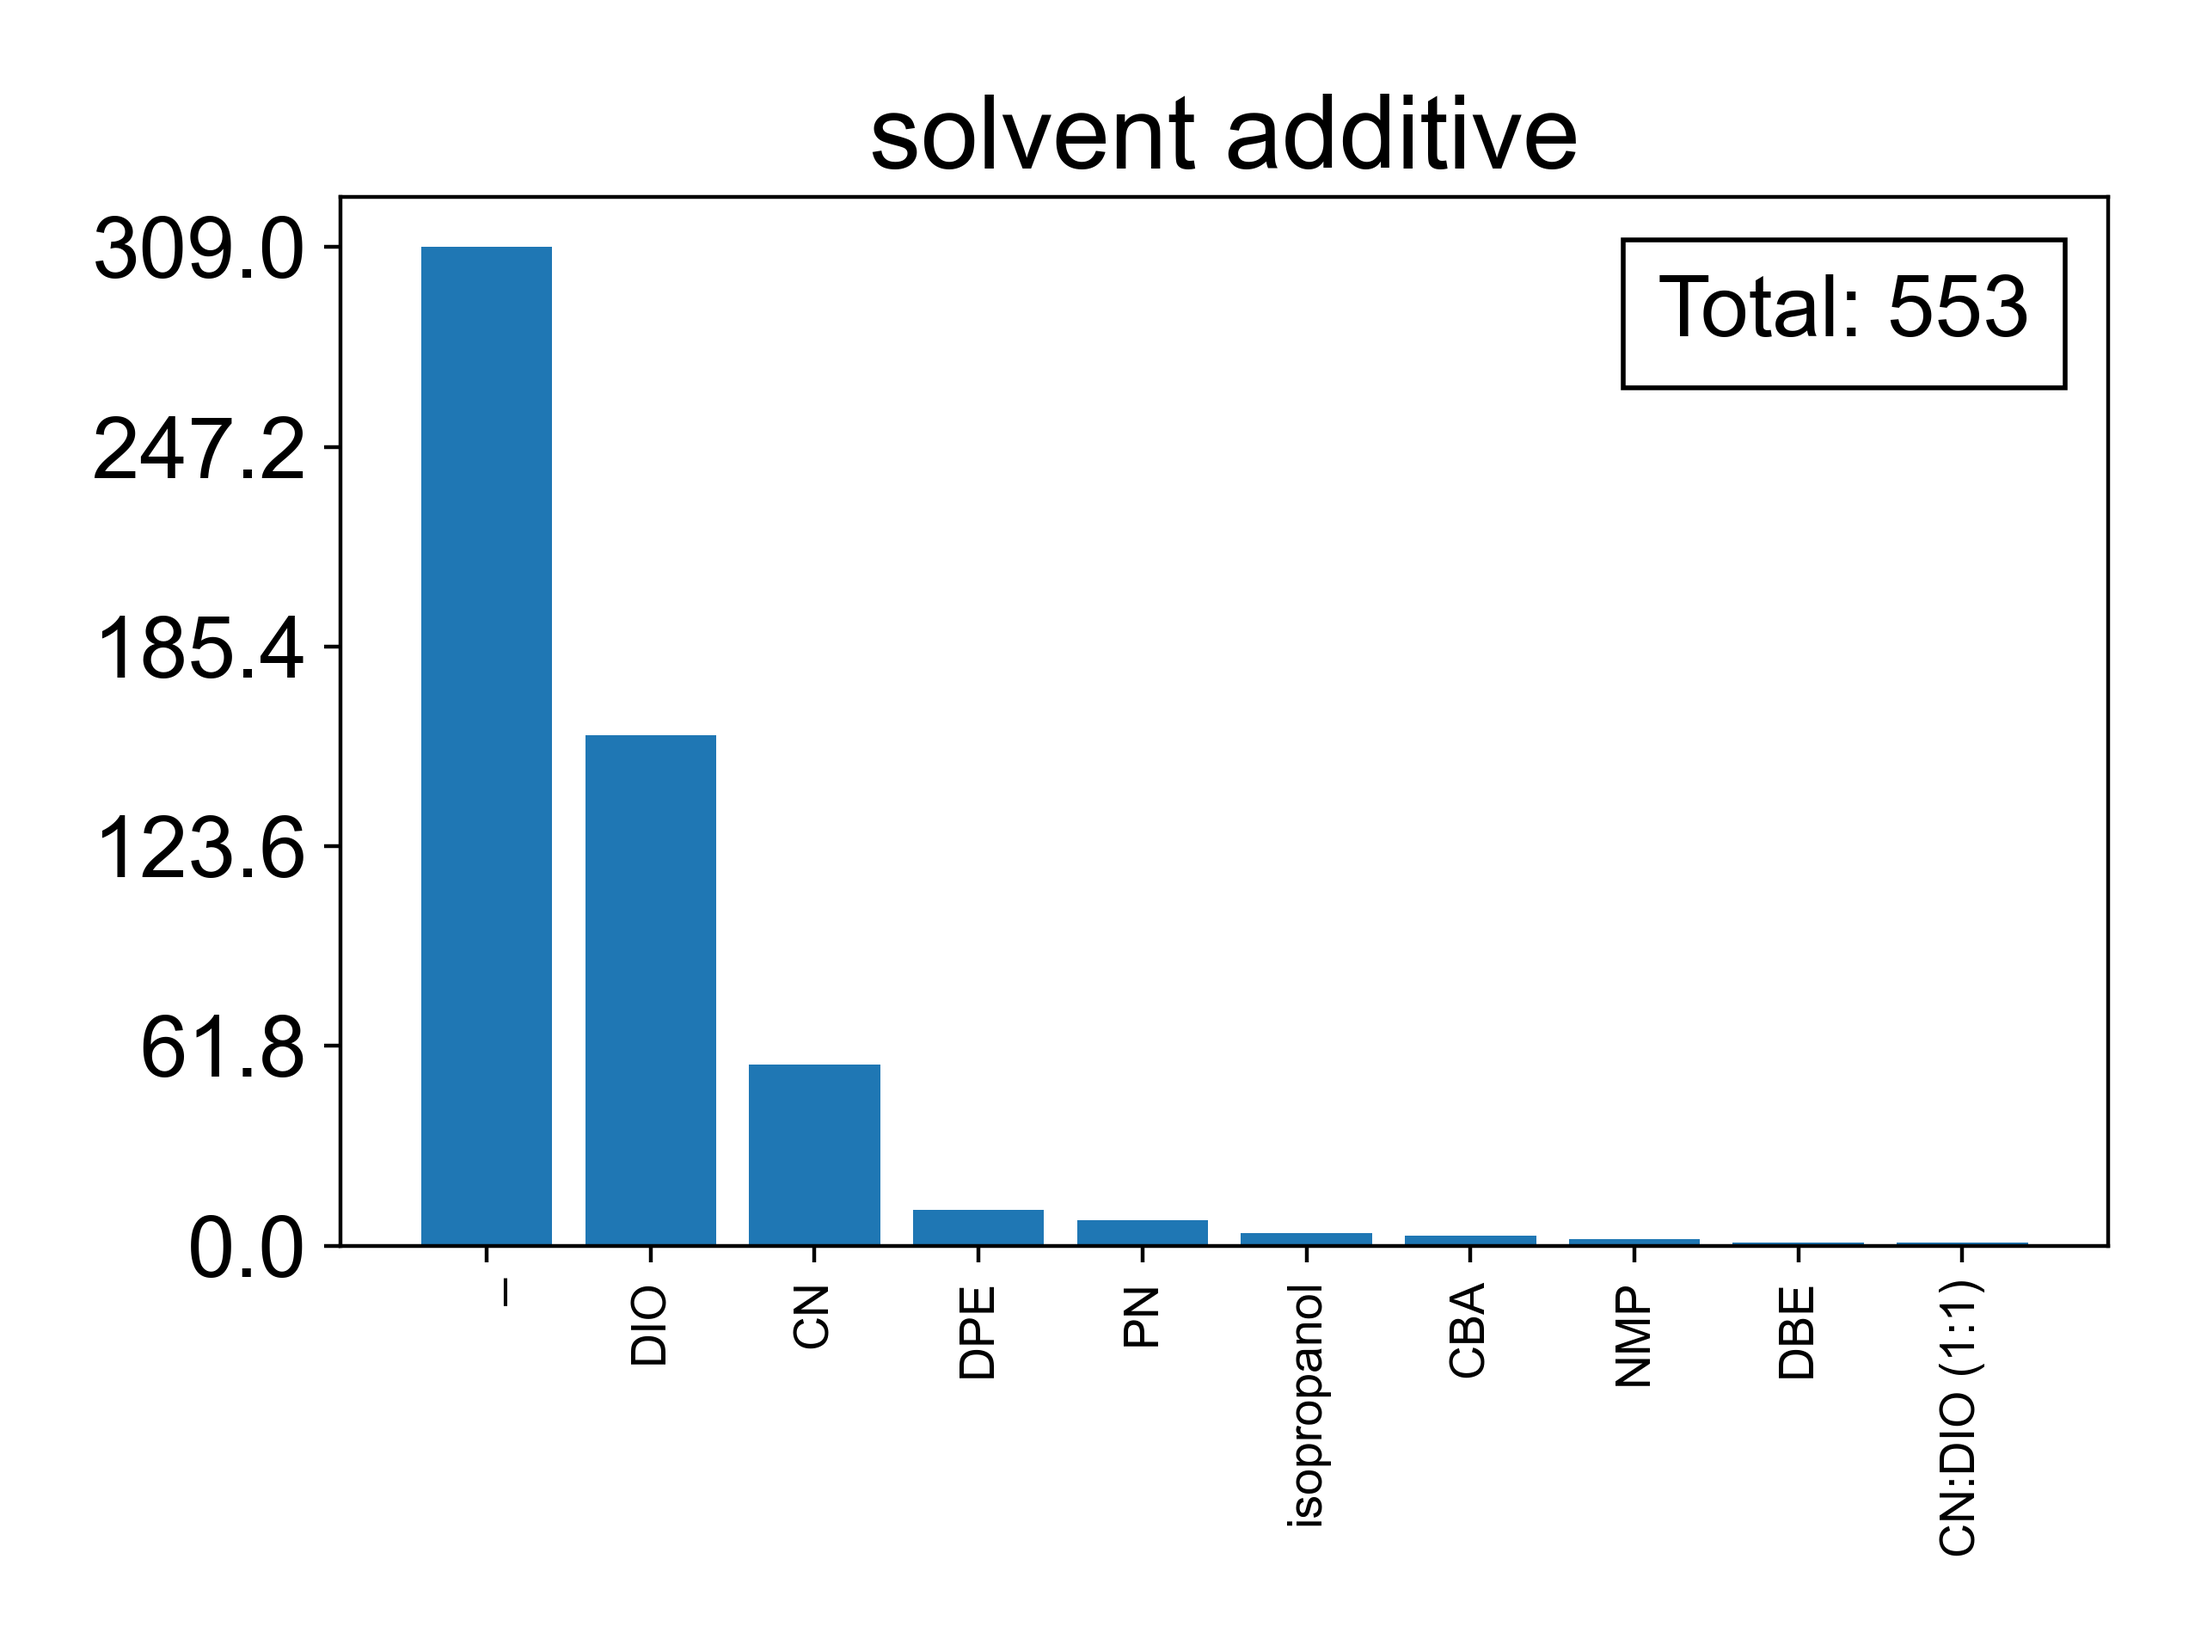
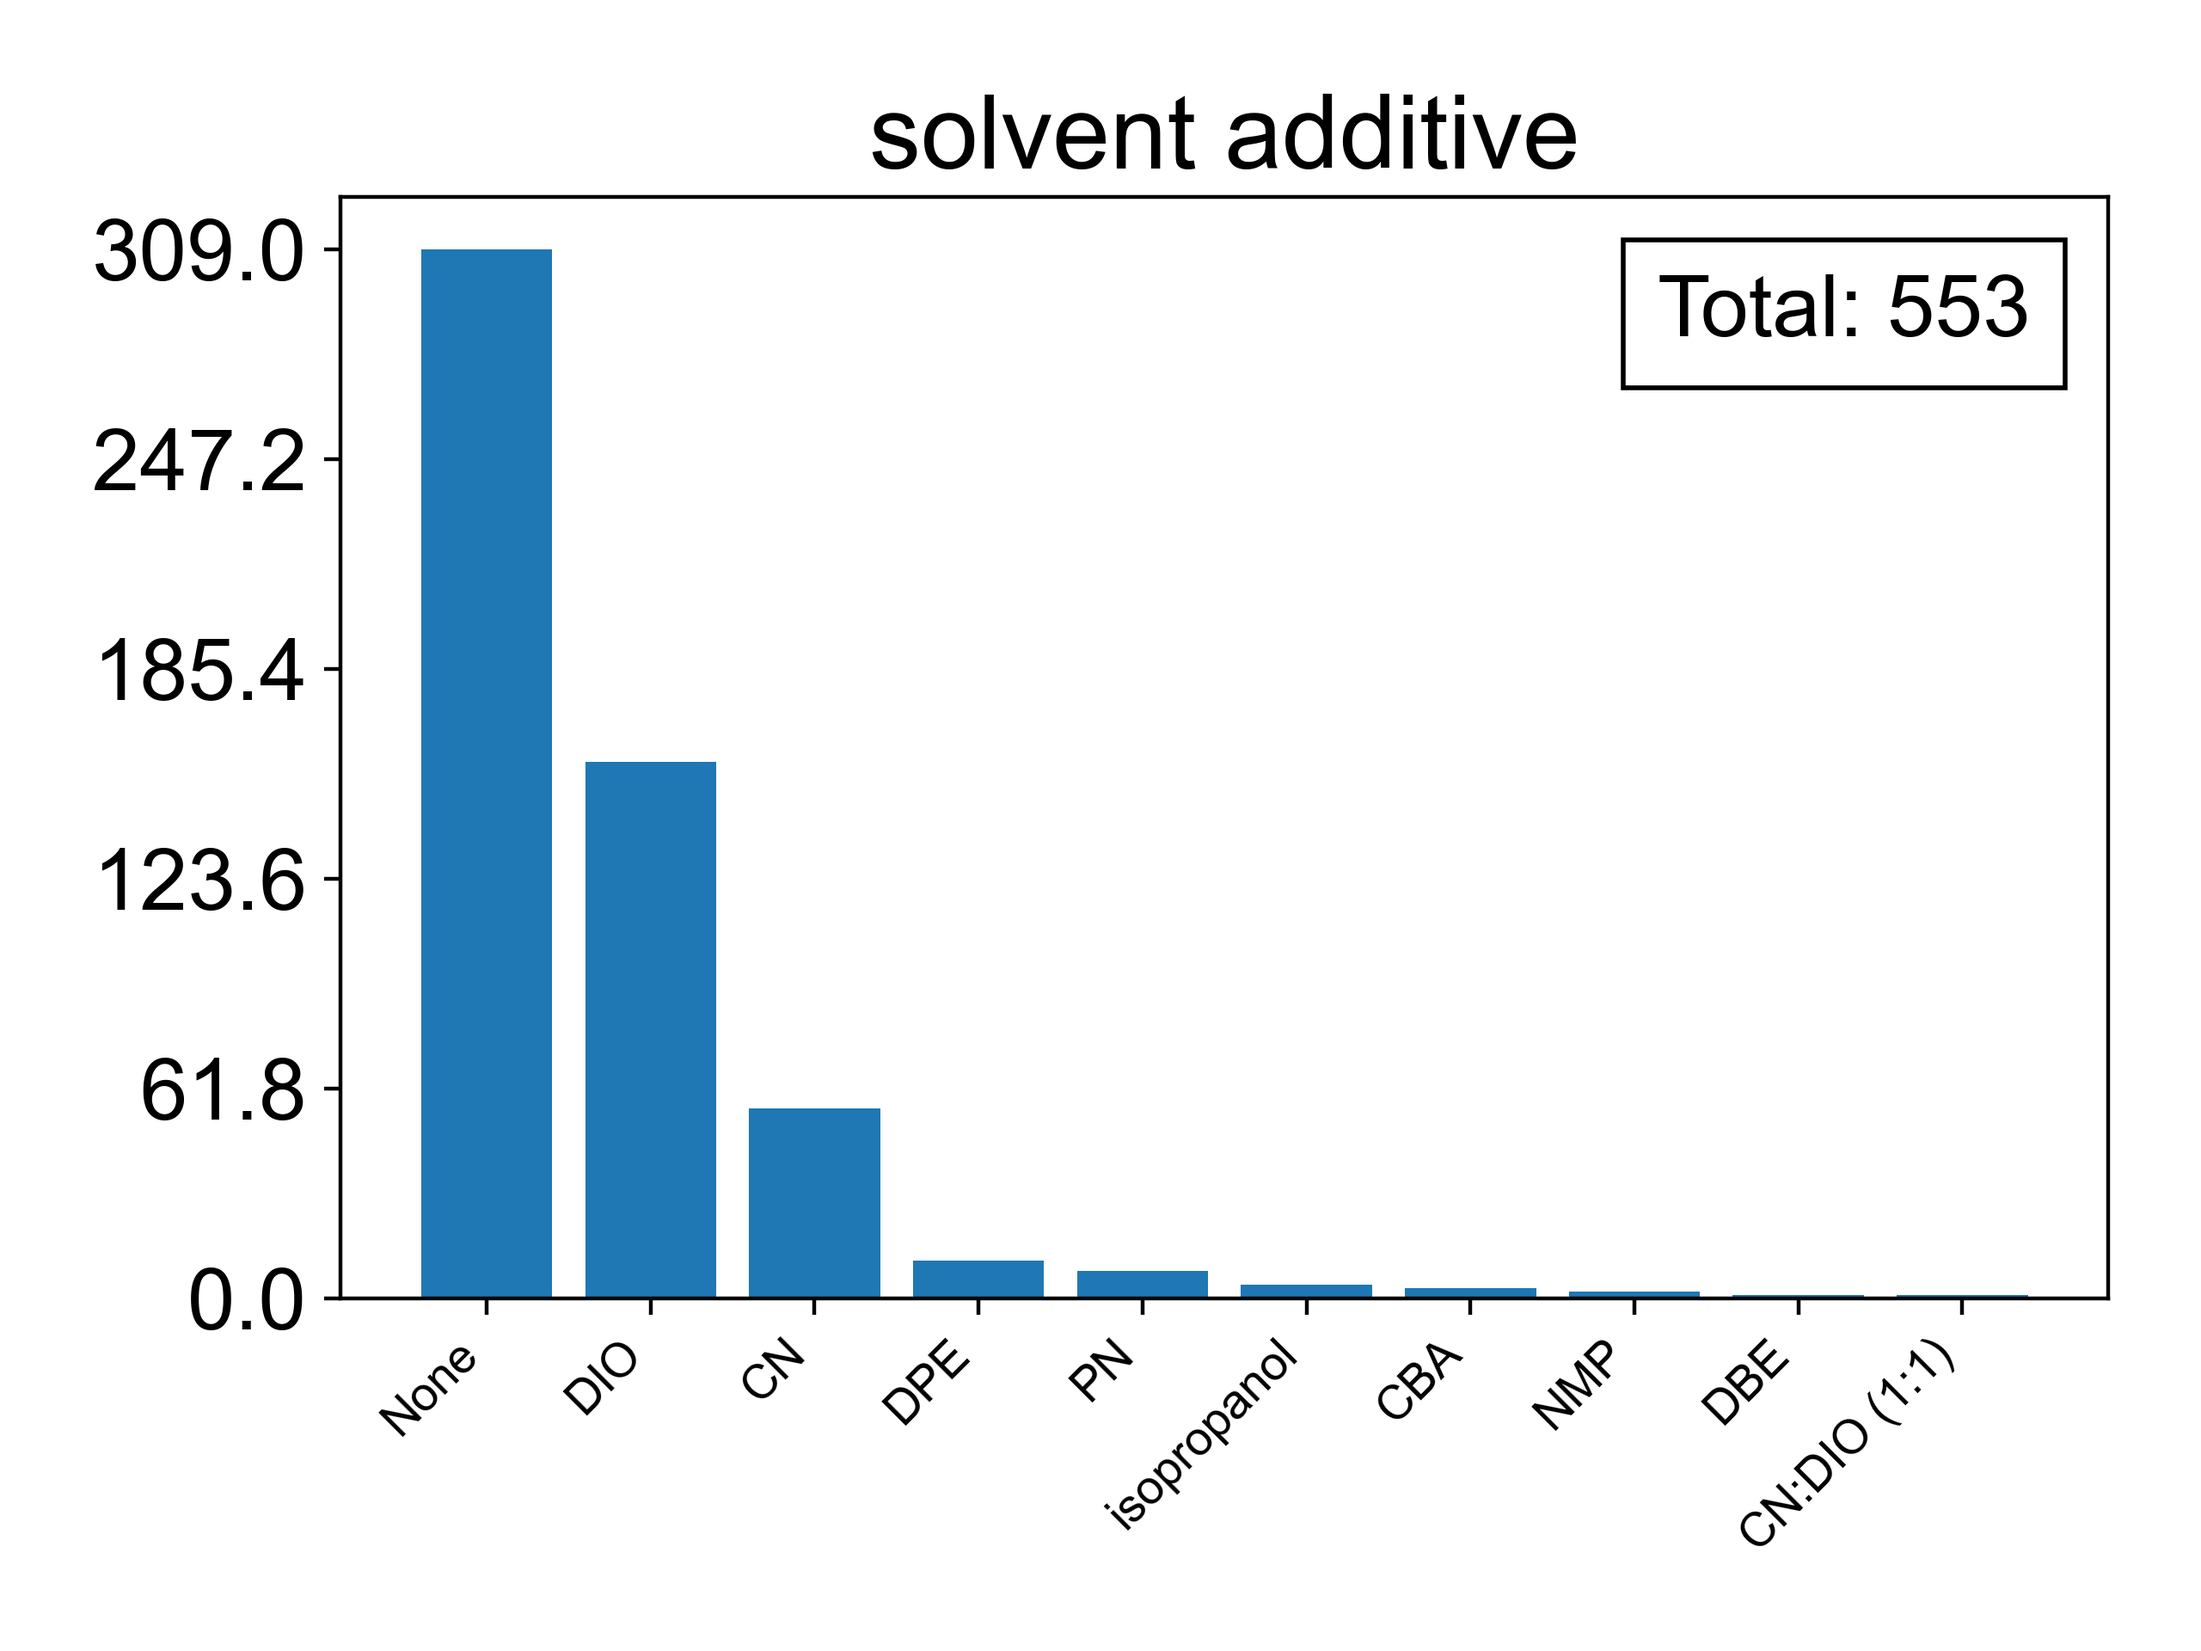
finished train loss curve (hard-coded)

diff --git a/code_/training/training_utils.py b/code_/training/training_utils.py
@@ -54,6 +54,9 @@ from sklearn.metrics import (
     r2_score,
 )
 
+# PyTorch TensorBoard support
+from torch.utils.tensorboard import SummaryWriter
+
 # from pipeline_utils import representation_scaling_factory
 
 HERE: Path = Path(__file__).resolve().parent
@@ -609,6 +612,28 @@ def run_pytorch(X, y, cv_outer, config):
         # patience = 10
         # trigger_times = 0
         # early_stop = False
+
+        # TODO: Setup logger and writer with Tensorflow!
+        # NOTE: paths are hard-coded because it's not backward compatible ...
+        # train_log: Path = (
+        #     HERE.parent.parent
+        #     / "results"
+        #     / "target_PCE"
+        #     / "features_ECFP"
+        #     / "ANN_log"
+        #     / "train"
+        # )
+        # train_writer: SummaryWriter = SummaryWriter(log_dir=train_log)
+        # valid_log: Path = (
+        #     HERE.parent.parent
+        #     / "results"
+        #     / "target_PCE"
+        #     / "features_ECFP"
+        #     / "ANN_log"
+        #     / "valid"
+        # )
+        # valid_writer: SummaryWriter = SummaryWriter(log_dir=valid_log)
+
         # NOTE: Start training (boilerplate)
         # start time
         start_time = time.time()
@@ -640,22 +665,34 @@ def run_pytorch(X, y, cv_outer, config):
                 # Gather number of iterations (batches) trained
                 n_iter += 1
                 # Stop training after max iterations
-                # if (n_iter * config["train_batch_size"]) % config[
-                #     "report_iter_frequency"
-                # ] == 0:
-                #     train_writer.add_scalar("loss_batch", loss, n_examples)
-                #     train_writer.add_scalar(
-                #         "loss_avg", running_loss / n_iter, n_examples
-                #     )
-                # # Log LR per-epoch
-                lr = optimizer.param_groups[0]["lr"]
-                # train_writer.add_scalar("lr", lr, n_examples)
-            # # print progress report
-            # print(
-            #     "EPOCH: {}, N_EXAMPLES: {}, LOSS: {}, LR: {}".format(
-            #         epoch, n_examples, loss, lr
-            #     )
-            # )
+            # train_writer.add_scalar("loss_batch", loss, n_examples)
+            # train_writer.add_scalar("loss_avg", running_loss / n_iter, n_examples)
+            # print progress report
+            print("EPOCH: {}, N_EXAMPLES: {}, LOSS: {}".format(epoch, n_examples, loss))
+            # VALIDATION LOOP
+            model.train(False)
+            n_valid_examples = 0
+            valid_loss_batch = 0
+            for i_test, valid_data in enumerate(test_dataloader):
+                valid_inputs, valid_targets = valid_data
+                valid_inputs, valid_targets = valid_inputs.to(
+                    device="cuda"
+                ), valid_targets.to(device="cuda")
+                # convert to float
+                valid_inputs, valid_targets = (
+                    valid_inputs.float(),
+                    valid_targets.float(),
+                )
+                # Make predictions for this batch
+                valid_outputs = model(valid_inputs)
+                # gather number of examples in test set
+                n_valid_examples += len(valid_inputs)
+                # Compute the loss
+                valid_loss = loss_fn(valid_outputs, valid_targets)
+                valid_loss_batch += valid_loss
+                # Log test loss
+            # valid_writer.add_scalar("loss_batch", valid_loss, n_examples)
+
         # end time
         end_time = time.time()
         # print training time
@@ -668,6 +705,8 @@ def run_pytorch(X, y, cv_outer, config):
         test_prediction = []
         ground_truth = []
         n_test_examples = 0
+        model.train(False)
+        test_loss_batch = 0
         for i_test, test_data in enumerate(test_dataloader):
             test_inputs, test_targets = test_data
             test_inputs, test_targets = test_inputs.to(device="cuda"), test_targets.to(
@@ -682,13 +721,18 @@ def run_pytorch(X, y, cv_outer, config):
             test_outputs = model(test_inputs)
             # gather number of examples in test set
             n_test_examples += len(test_inputs)
+            # Compute the loss
+            test_loss = loss_fn(test_outputs, test_targets)
+            test_loss_batch += test_loss
             # gather predictions and ground truth for result summary
             test_prediction.extend(test_outputs.tolist())
             ground_truth.extend(test_targets.tolist())
         # end time
         end_score_time = time.time()
         score_time = end_score_time - start_score_time
-
+        # close SummaryWriter
+        # train_writer.close()
+        # valid_writer.close()
         # reverse min-max scaling
         test_prediction: np.ndarray = min_max_y.inverse_transform(test_prediction)
         test_prediction: np.ndarray = standard_y.inverse_transform(test_prediction)

diff --git a/code_/visualization/feature_distribution.py b/code_/visualization/feature_distribution.py
@@ -169,8 +169,14 @@ def plot_individual_feature_distributions(
         anchored_text = AnchoredText(total, loc="upper right")
         ax.add_artist(anchored_text)
         if isinstance(current_val_list[0], str):
-            ax.tick_params(axis="x", labelrotation=90)
-            ax.tick_params(axis="x", labelsize=10)
+            # get unique values from current_val_list and order them by frequency
+            xaxis_labels: list = df[current_column].value_counts().index.tolist()
+            if "_" in xaxis_labels:
+                _index = xaxis_labels.index("_")
+                xaxis_labels[_index] = "None"
+            # ax.tick_params(axis="x", labelrotation=60)
+            # ax.tick_params(axis="x", labelsize=10)
+            ax.set_xticklabels(xaxis_labels, rotation=45, ha="right", fontsize=10)
 
         if current_column in [
             # "solvent additive conc. (% v/v)",

diff --git a/code_/training/train_structure_only.py b/code_/training/train_structure_only.py
@@ -289,8 +289,8 @@ def main_representation_model_grid(
 ) -> None:
     transform_type: str = "Standard"
 
-    for model in regressor_factory:
-        # for model in ["ANN"]:
+    # for model in regressor_factory:
+    for model in ["ANN"]:
         opv_dataset: pd.DataFrame = get_appropriate_dataset(model)
 
         if model == "GNN":
